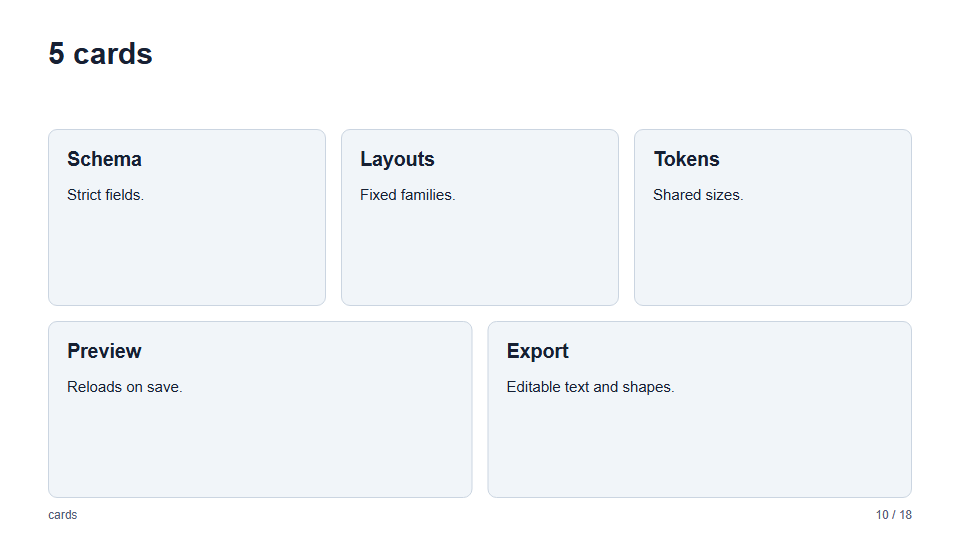
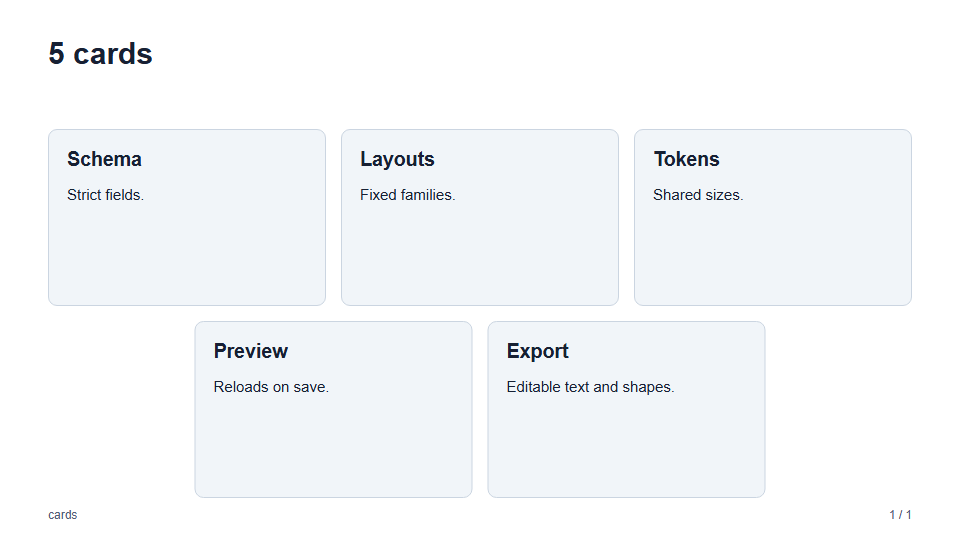
Add cards shape variants and center the lower row of five cards
Add cards/rounded, cards/circle, cards/hexagon, and cards/pentagon. Cards and
circles export as native PowerPoint shapes; the regular hexagon and downward
pentagon are SVG pictures behind editable text and keep their proportions
instead of stretching. With five cards, the lower two now keep the upper
cards' width and are centered. Update the docs, screenshots, tests, and
changelog.

diff --git a/site/src/content.ts b/site/src/content.ts
@@ -505,10 +505,10 @@ docker compose -f docker/compose.yaml --profile cli \\
         id: "slides",
         title: { en: "Slides and layouts", "zh-TW": "投影片與版型", "zh-CN": "幻灯片与版式", ja: "スライドとレイアウト" },
         body: {
-          en: "Every slide needs layout and title, and may have subtitle, footer, notes, and background. Notes become PowerPoint speaker notes. layout is a family, or family/variant such as cover/default: the family decides the fields and the variant only how the slide is drawn, so changing it leaves the content unchanged. A bare family is drawn as default. cover also has centered, split (an accent panel on the right third), and band (an accent block behind the title), and quote has centered; the other families have only default. Each family adds its own fields:",
-          "zh-TW": "每張投影片都需要 layout 與 title，可另加 subtitle、footer、notes 與 background，notes 會成為 PowerPoint 的演講者備忘稿。layout 可以是版型系列，或 cover/default 這類「系列/變化」：系列決定欄位，變化只決定呈現方式，因此換變化不必改內容。只寫系列名稱時使用 default。cover 另有 centered、split（右側三分之一的強調色塊）與 band（標題後方的強調色帶），quote 另有 centered，其他系列只有 default。各系列另有專屬欄位：",
-          "zh-CN": "每张幻灯片都需要 layout 与 title，可另加 subtitle、footer、notes 与 background，notes 会成为 PowerPoint 的演讲者备注。layout 可以是版式系列，或 cover/default 这类“系列/变体”：系列决定字段，变体只决定呈现方式，因此换变体不必改内容。只写系列名称时使用 default。cover 另有 centered、split（右侧三分之一的强调色块）与 band（标题后方的强调色带），quote 另有 centered，其他系列只有 default。各系列另有专属字段：",
-          ja: "各スライドには layout と title が必要で、subtitle、footer、notes、background も指定できます。notes は PowerPoint の発表者ノートになります。layout はレイアウトのファミリー、または cover/default のような「ファミリー/バリアント」です。ファミリーがフィールドを決め、バリアントは描き方だけを決めるので、バリアントを変えても内容はそのままです。ファミリー名だけなら default で描かれます。cover にはほかに centered、split（右側 3 分の 1 の強調色パネル）、band（タイトルの背後の強調色の帯）が、quote には centered があり、ほかのファミリーは default だけです。ファミリーごとに次のフィールドが加わります。",
+          en: "Every slide needs layout and title, and may have subtitle, footer, notes, and background. Notes become PowerPoint speaker notes. layout is a family, or family/variant such as cover/default: the family decides the fields and the variant only how the slide is drawn, so changing it leaves the content unchanged. A bare family is drawn as default. cover also has centered, split (an accent panel on the right third), and band (an accent block behind the title); quote has centered; cards has rounded, circle (a numbered circle above each card), hexagon (a regular six-sided shape), and pentagon (a regular five-sided shape); the other families have only default. Each family adds its own fields:",
+          "zh-TW": "每張投影片都需要 layout 與 title，可另加 subtitle、footer、notes 與 background，notes 會成為 PowerPoint 的演講者備忘稿。layout 可以是版型系列，或 cover/default 這類「系列/變化」：系列決定欄位，變化只決定呈現方式，因此換變化不必改內容。只寫系列名稱時使用 default。cover 另有 centered、split（右側三分之一的強調色塊）與 band（標題後方的強調色帶），quote 另有 centered，cards 另有 rounded、circle（每張卡片上方有編號圓形）、hexagon（正六角形）與 pentagon（正五角形），其他系列只有 default。各系列另有專屬欄位：",
+          "zh-CN": "每张幻灯片都需要 layout 与 title，可另加 subtitle、footer、notes 与 background，notes 会成为 PowerPoint 的演讲者备注。layout 可以是版式系列，或 cover/default 这类“系列/变体”：系列决定字段，变体只决定呈现方式，因此换变体不必改内容。只写系列名称时使用 default。cover 另有 centered、split（右侧三分之一的强调色块）与 band（标题后方的强调色带），quote 另有 centered，cards 另有 rounded、circle（每张卡片上方有编号圆形）、hexagon（正六边形）与 pentagon（正五边形），其他系列只有 default。各系列另有专属字段：",
+          ja: "各スライドには layout と title が必要で、subtitle、footer、notes、background も指定できます。notes は PowerPoint の発表者ノートになります。layout はレイアウトのファミリー、または cover/default のような「ファミリー/バリアント」です。ファミリーがフィールドを決め、バリアントは描き方だけを決めるので、バリアントを変えても内容はそのままです。ファミリー名だけなら default で描かれます。cover にはほかに centered、split（右側 3 分の 1 の強調色パネル）、band（タイトルの背後の強調色の帯）が、quote には centered が、cards には rounded、circle（各カードの上に番号付きの円）、hexagon（正六角形）、pentagon（正五角形）があり、ほかのファミリーは default だけです。ファミリーごとに次のフィールドが加わります。",
         },
         table: {
           caption: { en: "Layout fields", "zh-TW": "版型欄位", "zh-CN": "版式字段", ja: "レイアウトのフィールド" },
@@ -800,16 +800,21 @@ docker compose -f docker/compose.yaml --profile cli \\
         id: "gallery-cards",
         title: { en: "Gallery: cards", "zh-TW": "版型一覽：cards", "zh-CN": "版式一览：cards", ja: "ギャラリー：cards" },
         body: {
-          en: "The grid follows the number of cards, with no extra field: one card spans the width, two sit side by side, three and six use three columns, four form a 2 × 2 grid, and five are three over two.",
-          "zh-TW": "格線依卡片張數自動決定，不需要額外欄位：一張佔滿寬度、兩張並排、三張與六張為三欄、四張為 2 × 2、五張為上三下二。",
-          "zh-CN": "网格依卡片张数自动决定，不需要额外字段：一张占满宽度、两张并排、三张与六张为三栏、四张为 2 × 2、五张为上三下二。",
-          ja: "グリッドはカードの枚数で決まり、追加のフィールドは要りません。1 枚は全幅、2 枚は横並び、3 枚と 6 枚は 3 列、4 枚は 2 × 2、5 枚は上に 3 枚、下に 2 枚です。",
+          en: "The grid follows the number of cards, with no extra field: one card spans the width, two sit side by side, three and six use three columns, four form a 2 × 2 grid, and five are three over two, with the lower two keeping the upper cards' width and centered. Four variants change only the card shape: rounded (larger corners and an accent outline), circle (a numbered accent circle above each centered card), and hexagon and pentagon (accent-filled regular polygons with the number). A polygon keeps its proportions, leaving room above and below instead of stretching, so it suits a short title and a line or two. It is drawn as a vector graphic behind the text, which stays editable in PowerPoint.",
+          "zh-TW": "格線依卡片張數自動決定，不需要額外欄位：一張佔滿寬度、兩張並排、三張與六張為三欄、四張為 2 × 2、五張為上三下二（下排兩張維持與上排相同的寬度並置中）。另有四種變化只改變卡片形狀：rounded（較大的圓角與強調色外框）、circle（置中的卡片上方有編號強調色圓形），以及 hexagon 與 pentagon（強調色填滿、附編號的正六角形與正五角形）。多邊形維持固有比例，上下會留白而不會被拉長，適合短標題加一兩行文字。多邊形是畫在文字後方的向量圖形，文字在 PowerPoint 中仍可編輯。",
+          "zh-CN": "网格依卡片张数自动决定，不需要额外字段：一张占满宽度、两张并排、三张与六张为三栏、四张为 2 × 2、五张为上三下二（下排两张保持与上排相同的宽度并居中）。另有四种变体只改变卡片形状：rounded（较大的圆角与强调色外框）、circle（居中的卡片上方有编号强调色圆形），以及 hexagon 与 pentagon（强调色填满、附编号的正六边形与正五边形）。多边形保持固有比例，上下会留白而不会被拉长，适合短标题加一两行文字。多边形是画在文字后方的矢量图形，文字在 PowerPoint 中仍可编辑。",
+          ja: "グリッドはカードの枚数で決まり、追加のフィールドは要りません。1 枚は全幅、2 枚は横並び、3 枚と 6 枚は 3 列、4 枚は 2 × 2、5 枚は上に 3 枚、下に 2 枚（下の 2 枚は上と同じ幅のまま中央に配置）です。ほかに、カードの形だけを変える 4 つのバリアントがあります。rounded（大きめの角丸とアクセント色の枠）、circle（中央揃えのカードの上に番号付きのアクセント色の円）、hexagon と pentagon（アクセント色で塗りつぶした番号付きの正六角形と正五角形）です。多角形は縦横比を保つため、引き伸ばされずに上下に余白ができ、短いタイトルと 1〜2 行の文に向いています。多角形は文字の背後にベクター図形として描かれ、文字は PowerPoint で編集できます。",
         },
-        images: [2, 3, 4, 5, 6].map((count) => ({
+        images: [...[2, 3, 4, 5, 6].map((count) => ({
           src: `/screenshots/layout-cards-${count}.png`,
           alt: { en: `Cards slide with ${count} cards`, "zh-TW": `含 ${count} 張卡片的 cards 投影片`, "zh-CN": `含 ${count} 张卡片的 cards 幻灯片`, ja: `カードが ${count} 枚の cards スライド` },
           caption: { en: `${count} cards`, "zh-TW": `${count} 張卡片`, "zh-CN": `${count} 张卡片`, ja: `カード ${count} 枚` },
         })),
+          { src: "/screenshots/layout-cards-rounded.png", alt: { en: "Cards slide with rounded cards and accent outlines", "zh-TW": "圓角卡片與強調色外框的 cards 投影片", "zh-CN": "圆角卡片与强调色外框的 cards 幻灯片", ja: "角丸でアクセント色の枠の cards スライド" }, caption: "cards/rounded" },
+          { src: "/screenshots/layout-cards-circle.png", alt: { en: "Cards slide with a numbered circle above each card", "zh-TW": "每張卡片上方有編號圓形的 cards 投影片", "zh-CN": "每张卡片上方有编号圆形的 cards 幻灯片", ja: "各カードの上に番号付きの円がある cards スライド" }, caption: "cards/circle" },
+          { src: "/screenshots/layout-cards-hexagon.png", alt: { en: "Cards slide with accent-filled hexagon cards", "zh-TW": "強調色六角形卡片的 cards 投影片", "zh-CN": "强调色六边形卡片的 cards 幻灯片", ja: "アクセント色の六角形カードの cards スライド" }, caption: "cards/hexagon" },
+          { src: "/screenshots/layout-cards-pentagon.png", alt: { en: "Cards slide with accent-filled pentagon cards", "zh-TW": "強調色五角形卡片的 cards 投影片", "zh-CN": "强调色五边形卡片的 cards 幻灯片", ja: "アクセント色の五角形カードの cards スライド" }, caption: "cards/pentagon" },
+        ],
       },
       {
         id: "gallery-timeline",

diff --git a/src/layouts/cards/cards.css b/src/layouts/cards/cards.css
@@ -3,9 +3,31 @@
 .sf-card h2 { margin: 0 0 var(--sf-spacing-card-title); font-size: var(--sf-type-card-title); line-height: var(--sf-type-title-leading); }
 .sf-card .sf-blocks { font-size: var(--sf-type-card-body); }
 /* The grid follows the card count: 1 full width, 2 side by side, 3 and 6 in threes, 4 as 2 × 2,
-   and 5 as three over two on a six-column grid. */
+   and 5 as three over two on a six-column grid. The two lower cards keep the width of the upper
+   ones and sit centered, rather than stretching to fill the row. */
 .sf-cards[data-count="1"] { grid-template-columns: minmax(0, 1fr); }
 .sf-cards[data-count="2"], .sf-cards[data-count="4"] { grid-template-columns: repeat(2, minmax(0, 1fr)); }
 .sf-cards[data-count="5"] { grid-template-columns: repeat(6, minmax(0, 1fr)); }
 .sf-cards[data-count="5"] .sf-card { grid-column: span 2; }
-.sf-cards[data-count="5"] .sf-card:nth-child(n + 4) { grid-column: span 3; }
+.sf-cards[data-count="5"] .sf-card:nth-child(4) { grid-column: 2 / span 2; }
+.sf-cards[data-count="5"] .sf-card:nth-child(5) { grid-column: 4 / span 2; }
+/* rounded: softer corners and an accent outline. */
+.sf-variant-rounded .sf-card { border-radius: calc(var(--sf-border-radius) * 2.5); border-color: var(--sf-accent); }
+/* circle: a numbered accent circle above a centered card. */
+.sf-variant-circle .sf-card { align-items: center; text-align: center; border-radius: calc(var(--sf-border-radius) * 2.5); }
+.sf-variant-circle .sf-card-badge, .sf-variant-hexagon .sf-card-badge, .sf-variant-pentagon .sf-card-badge { flex: none; display: flex; align-items: center; justify-content: center; width: 84px; height: 84px; margin-bottom: var(--sf-spacing-card-title); border-radius: 50%; background: var(--sf-accent); color: var(--sf-on-accent); font-size: var(--sf-type-card-title); font-weight: var(--sf-type-bold); }
+/* hexagon and pentagon: a regular accent-filled polygon drawn behind the text. The card is a size
+   container, and the inner box takes the largest polygon-shaped area that fits it, centered, so the
+   shape is never stretched and leaves room above and below (or to the sides) instead. Padding is in
+   terms of the polygon's own width (--sf-shape-width). */
+.sf-variant-hexagon .sf-card, .sf-variant-pentagon .sf-card { container-type: size; display: grid; place-items: center; padding: 0; background: none; border: 0; color: var(--sf-on-accent); }
+.sf-variant-hexagon .sf-card-inner { --sf-shape-ratio: 1.1547; }
+.sf-variant-pentagon .sf-card-inner { --sf-shape-ratio: 1.0515; }
+.sf-card-inner { --sf-shape-width: min(100cqw, calc(100cqh * var(--sf-shape-ratio))); position: relative; display: flex; flex-direction: column; align-items: center; justify-content: center; width: var(--sf-shape-width); height: calc(var(--sf-shape-width) / var(--sf-shape-ratio)); text-align: center; overflow: hidden; }
+.sf-variant-hexagon .sf-card-inner { padding: calc(var(--sf-shape-width) * 0.04) calc(var(--sf-shape-width) * 0.18); }
+.sf-variant-pentagon .sf-card-inner { padding: calc(var(--sf-shape-width) * 0.1) calc(var(--sf-shape-width) * 0.1) calc(var(--sf-shape-width) * 0.3); }
+.sf-card-shape { position: absolute; inset: 0; width: 100%; height: 100%; z-index: -1; }
+.sf-card-shape polygon { fill: var(--sf-accent); }
+.sf-variant-hexagon .sf-card-badge, .sf-variant-pentagon .sf-card-badge { position: relative; width: 60px; height: 60px; margin-bottom: 12px; background: var(--sf-on-accent); color: var(--sf-accent); font-size: var(--sf-type-card-body); }
+.sf-variant-hexagon .sf-card h2, .sf-variant-pentagon .sf-card h2 { margin-bottom: 12px; }
+.sf-variant-hexagon .sf-card .sf-blocks, .sf-variant-pentagon .sf-card .sf-blocks { height: auto; flex: none; font-size: calc(var(--sf-type-card-body) * 0.8); }

diff --git a/tests/unit/layouts.test.ts b/tests/unit/layouts.test.ts
@@ -96,12 +96,26 @@ describe("family/variant layout names", () => {
     expect(issues({ layout: "quote/split", quote: "x" })).toEqual(['slides.0.layout: Unknown quote variant. Use "quote", "quote/default", or "quote/centered"']);
   });
 
+  it("numbers the cards of the circle, hexagon, and pentagon variants and draws the polygon", () => {
+    const cards = [1, 2, 3].map((index) => ({ title: `Card ${index}`, blocks: [{ type: "paragraph", text: "x" }] }));
+    const html = (layout: string) => renderPresentation(deck({ layout, cards }));
+    expect(html("cards")).not.toContain('class="sf-card-badge"');
+    expect(html("cards/rounded")).not.toContain('class="sf-card-badge"');
+    expect(html("cards/circle").match(/class="sf-card-badge"/g)).toHaveLength(3);
+    expect(html("cards/circle")).not.toContain('class="sf-card-shape"');
+    expect(html("cards/hexagon").match(/class="sf-card-shape"/g)).toHaveLength(3);
+    expect(html("cards/hexagon").match(/class="sf-card-badge"/g)).toHaveLength(3);
+    expect(html("cards/pentagon").match(/class="sf-card-shape"/g)).toHaveLength(3);
+    expect(html("cards/pentagon")).toContain('points="50,95.1 100,58.8 80.9,0 19.1,0 0,58.8"');
+  });
+
   it("arranges cards by their count", () => {
     for (const count of [1, 2, 3, 4, 5, 6]) {
       const cards = Array.from({ length: count }, (_, index) => ({ title: `Card ${index + 1}`, blocks: [{ type: "paragraph", text: "x" }] }));
       expect(renderPresentation(deck({ layout: "cards", cards }))).toContain(`<div class="sf-cards" data-count="${count}">`);
     }
-    expect(layoutStylesheet).toContain('.sf-cards[data-count="5"] .sf-card:nth-child(n + 4) { grid-column: span 3; }');
+    expect(layoutStylesheet).toContain('.sf-cards[data-count="5"] .sf-card:nth-child(4) { grid-column: 2 / span 2; }');
+    expect(layoutStylesheet).toContain('.sf-cards[data-count="5"] .sf-card:nth-child(5) { grid-column: 4 / span 2; }');
   });
 
   it("validates and draws timeline slides", () => {

diff --git a/src/components/slide.tsx b/src/components/slide.tsx
@@ -15,8 +15,18 @@ export function SlideContent({ children }: { children: ReactNode }) {
   return <div className="sf-content">{children}</div>;
 }
 
-export function SlideCard({ title, children }: { title: string; children: ReactNode }) {
-  return <article className="sf-card"><h2>{title}</h2>{children}</article>;
+/** Regular polygons (the pentagon points down) drawn behind a card's text; the card keeps the polygon's aspect ratio. */
+export const cardShapes = {
+  hexagon: { viewBox: "0 0 100 86.6", points: "25,0 75,0 100,43.3 75,86.6 25,86.6 0,43.3" },
+  pentagon: { viewBox: "0 0 100 95.1", points: "50,95.1 100,58.8 80.9,0 19.1,0 0,58.8" },
+} as const;
+export type CardShape = keyof typeof cardShapes;
+
+export function SlideCard({ title, badge, shape, children }: { title: string; badge?: number | undefined; shape?: CardShape | undefined; children: ReactNode }) {
+  const content = <>{badge !== undefined && <span className="sf-card-badge" aria-hidden="true">{badge}</span>}<h2>{title}</h2>{children}</>;
+  if (shape === undefined) return <article className="sf-card">{content}</article>;
+  const { viewBox, points } = cardShapes[shape];
+  return <article className="sf-card"><div className="sf-card-inner"><svg className="sf-card-shape" viewBox={viewBox} aria-hidden="true"><polygon points={points} /></svg>{content}</div></article>;
 }
 
 export function SlideColumns({ children }: { children: ReactNode }) {

diff --git a/src/layouts/cards/render.tsx b/src/layouts/cards/render.tsx
@@ -2,6 +2,8 @@ import { ContentBlocks } from "../../components/content.js";
 import { SlideCard } from "../../components/slide.js";
 import type { LayoutProps } from "../types.js";
 
-export function CardsLayout({ slide }: LayoutProps<"cards">) {
-  return <div className="sf-cards" data-count={slide.cards.length}>{slide.cards.map((card, index) => <SlideCard title={card.title} key={index}><ContentBlocks blocks={card.blocks} /></SlideCard>)}</div>;
+export function CardsLayout({ slide, variant }: LayoutProps<"cards">) {
+  const shape = variant === "hexagon" || variant === "pentagon" ? variant : undefined;
+  const numbered = variant === "circle" || shape !== undefined;
+  return <div className="sf-cards" data-count={slide.cards.length}>{slide.cards.map((card, index) => <SlideCard title={card.title} badge={numbered ? index + 1 : undefined} shape={shape} key={index}><ContentBlocks blocks={card.blocks} /></SlideCard>)}</div>;
 }

diff --git a/src/layouts/cards/schema.ts b/src/layouts/cards/schema.ts
@@ -1,7 +1,7 @@
 import { z } from "zod";
 import { blocks, slideObject, text } from "../../schemas/fields.js";
 
-const variants = ["default"] as const;
+const variants = ["default", "rounded", "circle", "hexagon", "pentagon"] as const;
 
 export const cards = {
   family: "cards",

diff --git a/docs/components.md b/docs/components.md
@@ -93,7 +93,7 @@ generated by `npm run docs:screenshots`; see [backgrounds](backgrounds.md#screen
 ### `cards`
 
 The grid follows the number of cards: one card spans the width, two sit side by side,
-three and six use three columns, four form a 2 × 2 grid, and five are three over two.
+three and six use three columns, four form a 2 × 2 grid, and five are three over two, with the lower two keeping the upper cards' width and centered.
 
 | 2 cards | 3 cards |
 | --- | --- |
@@ -102,6 +102,21 @@ three and six use three columns, four form a 2 × 2 grid, and five are three ove
 | ![Four cards in a two-by-two grid](../site/public/screenshots/layout-cards-4.png) | ![Five cards, three over two](../site/public/screenshots/layout-cards-5.png) |
 | **6 cards** | |
 | ![Six cards in two rows of three](../site/public/screenshots/layout-cards-6.png) | |
+
+Four variants change only the card shape; the fields and the grid are the same. `circle`, `hexagon`, and
+`pentagon` number the cards 1 to 6 and center their text. The polygons are regular and keep their
+proportions, so they leave room above and below (or at the sides) instead of stretching, and their
+text area is small: they suit a title and one or two short lines.
+
+| `cards/rounded` | `cards/circle` |
+| --- | --- |
+| ![Rounded cards with accent outlines](../site/public/screenshots/layout-cards-rounded.png) | ![A numbered circle above each card](../site/public/screenshots/layout-cards-circle.png) |
+| **`cards/hexagon`** | **`cards/pentagon`** |
+| ![Accent-filled hexagon cards](../site/public/screenshots/layout-cards-hexagon.png) | ![Accent-filled pentagon cards](../site/public/screenshots/layout-cards-pentagon.png) |
+
+In PowerPoint the cards and circles are native shapes. The polygons are SVG pictures behind the
+text, so the text and number stay editable but the polygon is a vector graphic, not an editable
+shape (PowerPoint can convert it to one).
 
 ### `timeline`
 

diff --git a/docs/schema.md b/docs/schema.md
@@ -67,7 +67,8 @@ variant, so `"<family>"` and `"<family>/default"` render the same.
 | --- | --- |
 | `cover` | `default` (left-aligned), `centered` (centered title, subtitle, and author), `split` (accent panel on the right third; text and footer stay left of it), `band` (full-bleed accent block behind the title and subtitle, which use the on-accent color) |
 | `quote` | `default` (left-aligned beside an accent bar), `centered` (centered, without the bar) |
-| `content`, `two-columns`, `cards`, `timeline`, `gantt`, `table`, `chart`, `blank` | `default` |
+| `cards` | `default` (rectangular cards), `rounded` (larger corners and an accent outline), `circle` (a numbered accent circle above each centered card), `hexagon` and `pentagon` (accent-filled regular polygons with a numbered circle; the card keeps the polygon's proportions and the shape is a vector graphic behind the text) |
+| `content`, `two-columns`, `timeline`, `gantt`, `table`, `chart`, `blank` | `default` |
 
 [`examples/variants/presentation.json`](../examples/variants/presentation.json)
 shows each cover variant. The `split` panel and `band` block are decorative
@@ -103,7 +104,7 @@ full-width chart. A quote is plain text drawn larger than body text, vertically
 centered in the content region; keep it to a few lines, since longer quotes clip.
 
 Cards are arranged by their count: one spans the width, two sit side by side, three
-and six use three columns, four form a 2 × 2 grid, and five are three over two.
+and six use three columns, four form a 2 × 2 grid, and five are three over two, with the lower two keeping the upper cards' width and centered.
 Timeline events are drawn left to right in equal columns on one rail, in array order;
 `date` is any short marker such as `2026`, `Q3`, or `Step 1`. Keep `text` to a line or
 two, especially with five or six events.

diff --git a/CHANGELOG.md b/CHANGELOG.md
@@ -7,6 +7,11 @@ All notable changes to this project will be documented in this file. The format 
 
 ### Added
 
+- `cards/rounded`, `cards/circle`, `cards/hexagon`, and `cards/pentagon` variants: larger
+  corners with an accent outline, a numbered accent circle above each centered card, and
+  accent-filled regular hexagons and pentagons that keep their proportions instead of
+  stretching. Cards and circles export as native PowerPoint shapes; the polygons are SVG
+  pictures behind editable text.
 - Eight built-in color templates, each with a light and a dark palette: `indigo-midnight`,
   `forest-emerald`, `ocean-violet`, `terracotta-graphite`, `sunset-orange`, `coffee-brown`,
   `crimson-red`, and `magenta-pink`. Light-theme accents keep at least about 4.5:1 contrast
@@ -39,6 +44,8 @@ All notable changes to this project will be documented in this file. The format 
 
 ### Changed
 
+- Five cards: the lower two keep the width of the upper three and are centered, instead of
+  stretching to fill the row.
 - Remote (HTTP/HTTPS) images are downloaded by SlideForge in Node instead of being
   loaded by the browser, so the image host's CORS and `Cross-Origin-Resource-Policy`
   headers no longer matter. Limits: 25 MiB per image, 200 MiB per deck, 30 seconds per

diff --git a/docs/limitations.md b/docs/limitations.md
@@ -19,6 +19,9 @@
   that every browser feature becomes a native Office object. Charts are
   HTML/CSS bars, not Office chart objects. Images remain images; table conversion
   behavior depends on the converter.
+- The export ignores CSS `clip-path`, so a non-rectangular shape has to be an inline SVG.
+  `cards/hexagon` and `cards/pentagon` draw their polygons that way: each becomes a vector
+  picture behind the card's text, and the text and number stay editable.
 - SlideForge has no automatic unsupported-content raster fallback. Upstream may
   rasterize pseudo-elements/effects or other content internally, which can reduce
   editability. Arbitrary scripts, canvas, video, animations, SVG features, and
